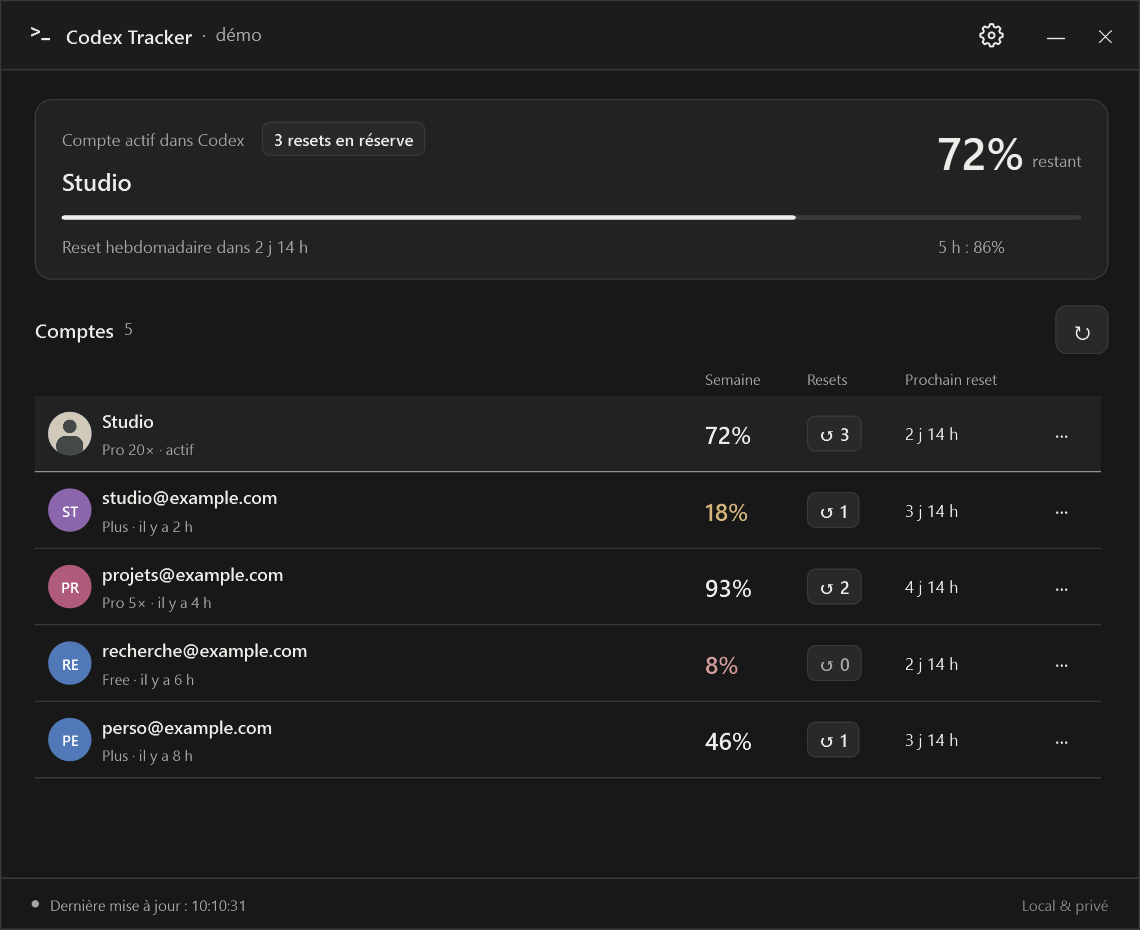
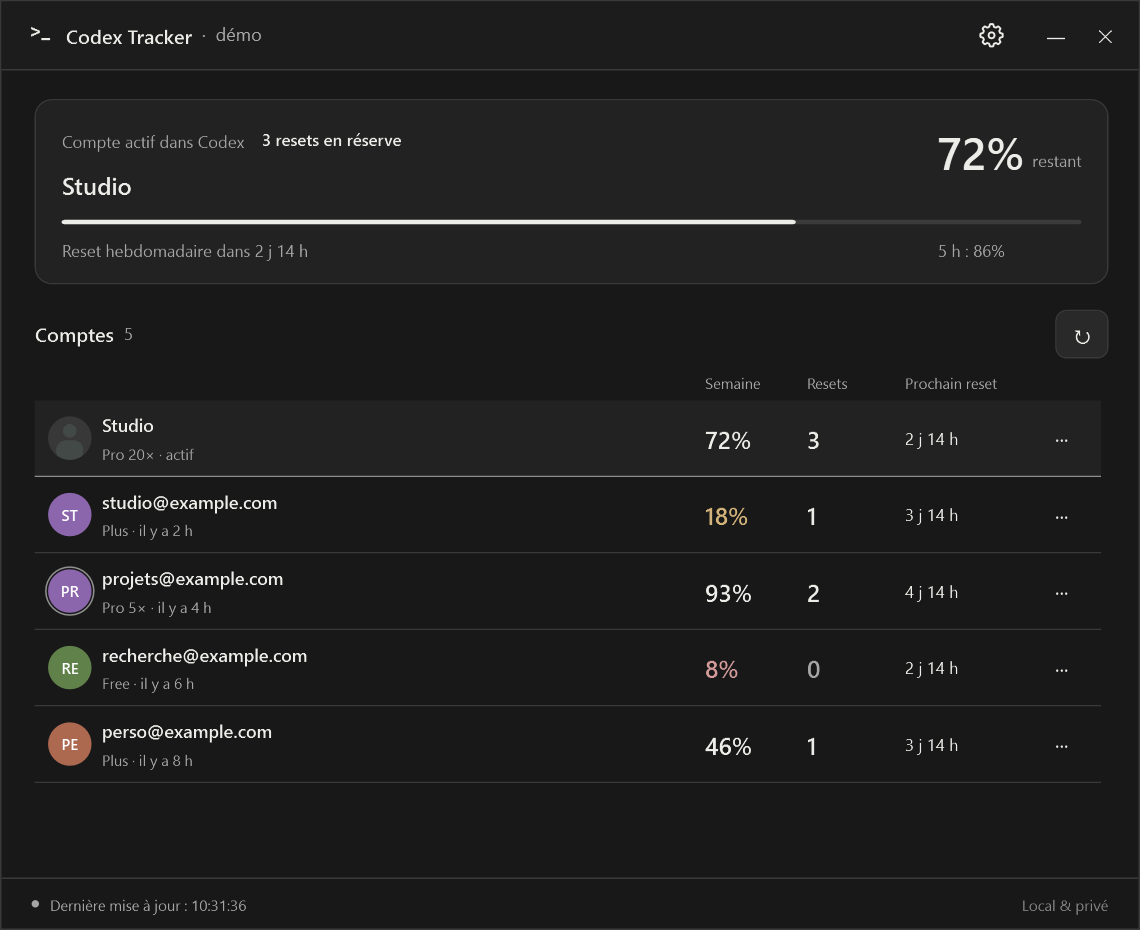
Present reset reserves as plain counters instead of button-like badges

diff --git a/src/CodexTracker.App/MainWindow.xaml b/src/CodexTracker.App/MainWindow.xaml
@@ -1,7 +1,7 @@
 <Window x:Class="CodexTracker.App.MainWindow" xmlns="http://schemas.microsoft.com/winfx/2006/xaml/presentation" xmlns:x="http://schemas.microsoft.com/winfx/2006/xaml" xmlns:shell="clr-namespace:System.Windows.Shell;assembly=PresentationFramework" Title="Codex Tracker" Icon="Assets/App.ico" Width="760" Height="620" MinWidth="630" MinHeight="500" WindowStartupLocation="CenterScreen" WindowStyle="None" ResizeMode="CanResize" UseLayoutRounding="True" Background="{DynamicResource BackgroundBrush}" Foreground="{DynamicResource TextBrush}" FontFamily="Segoe UI">
  <Window.Resources>
   <DataTemplate x:Key="ReserveTooltip"><TextBlock Text="{Binding}" TextWrapping="Wrap" MaxWidth="390"/></DataTemplate>
-  <Style x:Key="ReserveBadge" TargetType="Border"><Setter Property="Background" Value="{DynamicResource ButtonBrush}"/><Setter Property="BorderBrush" Value="{DynamicResource LineBrush}"/><Setter Property="BorderThickness" Value="1"/><Setter Property="CornerRadius" Value="5"/><Setter Property="Padding" Value="7,3"/><Setter Property="ToolTipService.InitialShowDelay" Value="150"/><Setter Property="ToolTipService.ShowDuration" Value="60000"/></Style>
+  <Style x:Key="ReserveMetric" TargetType="Border"><Setter Property="Background" Value="Transparent"/><Setter Property="Padding" Value="0,4"/><Setter Property="MinHeight" Value="26"/><Setter Property="MinWidth" Value="34"/><Setter Property="ToolTipService.InitialShowDelay" Value="150"/><Setter Property="ToolTipService.ShowDuration" Value="60000"/></Style>
  </Window.Resources>
  <shell:WindowChrome.WindowChrome><shell:WindowChrome CaptionHeight="45" ResizeBorderThickness="6" CornerRadius="10" GlassFrameThickness="0"/></shell:WindowChrome.WindowChrome>
  <Border BorderBrush="{DynamicResource LineBrush}" BorderThickness="1"><Grid>
@@ -18,7 +18,7 @@
   <Grid Grid.Row="1" Margin="22,19,20,12"><Grid.RowDefinitions><RowDefinition Height="Auto"/><RowDefinition Height="Auto"/><RowDefinition Height="Auto"/><RowDefinition Height="Auto"/><RowDefinition Height="*"/></Grid.RowDefinitions>
    <Border Background="{DynamicResource PanelBrush}" BorderBrush="{DynamicResource LineBrush}" BorderThickness="1" CornerRadius="9" Padding="13,10" Margin="0,0,0,13" Visibility="{Binding ShowOnboarding, Converter={StaticResource BoolVisibility}}"><Grid><Grid.ColumnDefinitions><ColumnDefinition Width="*"/><ColumnDefinition Width="Auto"/></Grid.ColumnDefinitions><TextBlock Text="Changez de compte dans Codex : le tracker suit automatiquement. Glissez son icône près de l’horloge pour la garder visible." TextWrapping="Wrap" Foreground="{DynamicResource MutedBrush}" FontSize="11" Margin="0,0,14,0"/><Button Grid.Column="1" Content="Compris" Click="Onboarding_Click" Padding="9,5" VerticalAlignment="Center"/></Grid></Border>
    <Border Grid.Row="1" Background="{DynamicResource PanelBrush}" BorderBrush="{DynamicResource LineBrush}" BorderThickness="1" CornerRadius="11" Padding="17,14" Visibility="{Binding HasActive, Converter={StaticResource BoolVisibility}}"><Grid><Grid.RowDefinitions><RowDefinition Height="Auto"/><RowDefinition Height="Auto"/><RowDefinition Height="Auto"/></Grid.RowDefinitions><Grid.ColumnDefinitions><ColumnDefinition Width="*"/><ColumnDefinition Width="Auto"/></Grid.ColumnDefinitions>
-        <StackPanel><WrapPanel VerticalAlignment="Center"><TextBlock Text="{Binding Active.SummaryLabel}" Foreground="{DynamicResource MutedBrush}" FontSize="11" VerticalAlignment="Center" Margin="0,0,12,0"/><Border Style="{StaticResource ReserveBadge}" Margin="0,0,8,0"><Border.ToolTip><ToolTip Content="{Binding Active.ReserveHint}" ContentTemplate="{StaticResource ReserveTooltip}"/></Border.ToolTip><TextBlock Text="{Binding Active.ReserveSummary}" Foreground="{Binding Active.ReserveBrush}" FontSize="11" FontWeight="SemiBold"/></Border></WrapPanel><TextBlock Text="{Binding Active.Email}" FontSize="16" FontWeight="SemiBold" TextTrimming="CharacterEllipsis" Margin="0,5,15,0" ToolTip="{Binding Active.Email}"/></StackPanel>
+        <StackPanel><WrapPanel VerticalAlignment="Center"><TextBlock Text="{Binding Active.SummaryLabel}" Foreground="{DynamicResource MutedBrush}" FontSize="11" VerticalAlignment="Center" Margin="0,0,12,0"/><Border Style="{StaticResource ReserveMetric}" Margin="0,0,8,0"><Border.ToolTip><ToolTip Content="{Binding Active.ReserveHint}" ContentTemplate="{StaticResource ReserveTooltip}"/></Border.ToolTip><TextBlock Text="{Binding Active.ReserveSummary}" Foreground="{Binding Active.ReserveBrush}" FontSize="11" FontWeight="SemiBold"/></Border></WrapPanel><TextBlock Text="{Binding Active.Email}" FontSize="16" FontWeight="SemiBold" TextTrimming="CharacterEllipsis" Margin="0,5,15,0" ToolTip="{Binding Active.Email}"/></StackPanel>
     <StackPanel Grid.Column="1" HorizontalAlignment="Right"><StackPanel Orientation="Horizontal"><TextBlock Text="{Binding Active.WeeklyNumber}" FontFamily="Segoe UI" TextOptions.TextFormattingMode="Ideal" FontSize="30" FontWeight="SemiBold" Foreground="{Binding Active.WeeklyBrush}"/><TextBlock Text=" restant" Foreground="{DynamicResource MutedBrush}" FontSize="11" VerticalAlignment="Bottom" Margin="2,0,0,7"/></StackPanel></StackPanel>
     <ProgressBar Grid.Row="1" Grid.ColumnSpan="2" Value="{Binding Active.WeeklyPercent, Mode=OneWay}" Foreground="{Binding Active.WeeklyBrush}" Margin="0,12,0,10"/>
     <TextBlock Grid.Row="2" Text="{Binding Active.SummaryReset}" ToolTip="{Binding Active.ResetHint}" Foreground="{DynamicResource MutedBrush}" FontSize="11" TextTrimming="CharacterEllipsis" Margin="0,0,12,0"/><TextBlock Grid.Row="2" Grid.Column="1" Text="{Binding Active.ShortSummary}" Foreground="{DynamicResource MutedBrush}" FontSize="11"/>
@@ -36,7 +36,7 @@
       <Button Tag="{Binding Id}" Click="Avatar_Click" Style="{StaticResource AvatarButton}" Width="33" Height="33" ToolTip="Changer le nom ou l’avatar" AutomationProperties.Name="Personnaliser l’avatar du compte" HorizontalAlignment="Left" VerticalAlignment="Center"><Border Width="29" Height="29" Background="{Binding AvatarBackground}" CornerRadius="15" VerticalAlignment="Center" HorizontalAlignment="Left"><Grid><TextBlock Text="{Binding Initials}" Foreground="White" FontSize="10" FontWeight="Medium" HorizontalAlignment="Center" VerticalAlignment="Center"><TextBlock.Style><Style TargetType="TextBlock"><Style.Triggers><DataTrigger Binding="{Binding HasAvatar}" Value="True"><Setter Property="Visibility" Value="Collapsed"/></DataTrigger></Style.Triggers></Style></TextBlock.Style></TextBlock><Border CornerRadius="15" Visibility="{Binding HasAvatar, Converter={StaticResource BoolVisibility}}"><Border.Background><ImageBrush ImageSource="{Binding Avatar}" Stretch="UniformToFill"/></Border.Background></Border></Grid></Border></Button>
       <StackPanel Grid.Column="1" VerticalAlignment="Center" Margin="0,0,12,0"><TextBlock Text="{Binding Email}" FontSize="12" FontWeight="SemiBold" TextTrimming="CharacterEllipsis" ToolTip="{Binding IdentityHint}"/><TextBlock Text="{Binding RowSubtitle}" FontSize="10" Foreground="{DynamicResource MutedBrush}" Margin="0,4,0,0" TextTrimming="CharacterEllipsis" ToolTip="{Binding Freshness}"/></StackPanel>
       <StackPanel Grid.Column="2" VerticalAlignment="Center"><TextBlock Text="{Binding WeeklyNumber}" Foreground="{Binding WeeklyBrush}" FontSize="16" FontWeight="SemiBold"/></StackPanel>
-            <Border Grid.Column="3" Style="{StaticResource ReserveBadge}" HorizontalAlignment="Left" VerticalAlignment="Center" AutomationProperties.Name="{Binding ReserveSummary}"><Border.ToolTip><ToolTip Content="{Binding ReserveHint}" ContentTemplate="{StaticResource ReserveTooltip}"/></Border.ToolTip><TextBlock Text="{Binding ReserveBadge}" Foreground="{Binding ReserveBrush}" FontSize="12" FontWeight="SemiBold"/></Border>
+            <Border Grid.Column="3" Style="{StaticResource ReserveMetric}" HorizontalAlignment="Left" VerticalAlignment="Center" AutomationProperties.Name="{Binding ReserveSummary}"><Border.ToolTip><ToolTip Content="{Binding ReserveHint}" ContentTemplate="{StaticResource ReserveTooltip}"/></Border.ToolTip><TextBlock Text="{Binding ReserveCount}" Foreground="{Binding ReserveBrush}" FontSize="16" FontWeight="SemiBold"/></Border>
       <StackPanel Grid.Column="4" VerticalAlignment="Center" ToolTip="{Binding ResetHint}"><TextBlock Text="{Binding ResetCompact}" FontSize="11"/></StackPanel>
       <StackPanel Grid.Column="5" Orientation="Horizontal" VerticalAlignment="Center"><Button Content="···" Tag="{Binding Id}" Click="Details_Click" ToolTip="Détails et historique" AutomationProperties.Name="Détails et historique du compte" Style="{StaticResource QuietButton}" Padding="7,6" FontSize="14"/></StackPanel>
      </Grid></Border>

diff --git a/README.md b/README.md
@@ -37,7 +37,7 @@ Seul le compte ouvert dans Codex est actualisé, toutes les deux minutes par dé
 - **Dans l’icône** : chiffre monochrome lisible et jauge fine. La jauge reste neutre au-dessus de 20 %, orange entre 10 et 20 %, rouge sous 10 %. La valeur reste lisible sans dépendre uniquement de la couleur.
 - **Offre** : badges Free, Plus, Pro et autres offres renvoyées par Codex. Les valeurs `prolite` et `pro` correspondent respectivement à Pro **5×** et Pro **20×**, conformément à l’interface Codex actuelle. Une offre inconnue reste affichée telle quelle.
 - **Période d’abonnement** : début et fin de période active lorsqu’ils sont présents dans les métadonnées de session Codex. Ce ne sont pas nécessairement la date de souscription initiale ni une échéance de paiement. Les dates absentes restent indisponibles.
-- **Resets en réserve** : badge visible sur le compte actif et dans la colonne **Resets**. Survolez le badge pour lire les dates d’obtention et d’expiration, leur fuseau horaire et la date du relevé. L’aperçu de l’icône présente aussi la réserve et les expirations. Le compteur `availableCount` fourni par Codex, accompagné des expirations disponibles. Le nombre d’éléments détaillés ne remplace jamais le compteur serveur.
+- **Resets en réserve** : compteur sans cadre sur le compte actif et dans la colonne **Resets**. Survolez le compteur pour lire les dates d’obtention et d’expiration, leur fuseau horaire et la date du relevé. L’aperçu de l’icône présente aussi la réserve et les expirations. Le compteur `availableCount` fourni par Codex, accompagné des expirations disponibles. Le nombre d’éléments détaillés ne remplace jamais le compteur serveur.
 - Les dates précises utilisent le fuseau horaire Windows et son décalage UTC. Le compte à rebours complète l’heure exacte ; il ne confirme pas un reset tant que le serveur n’a pas actualisé la valeur.
 - En cas d’erreur, les dernières valeurs et leur ancienneté sont conservées. Une information absente reste « indisponible », jamais zéro.
 
